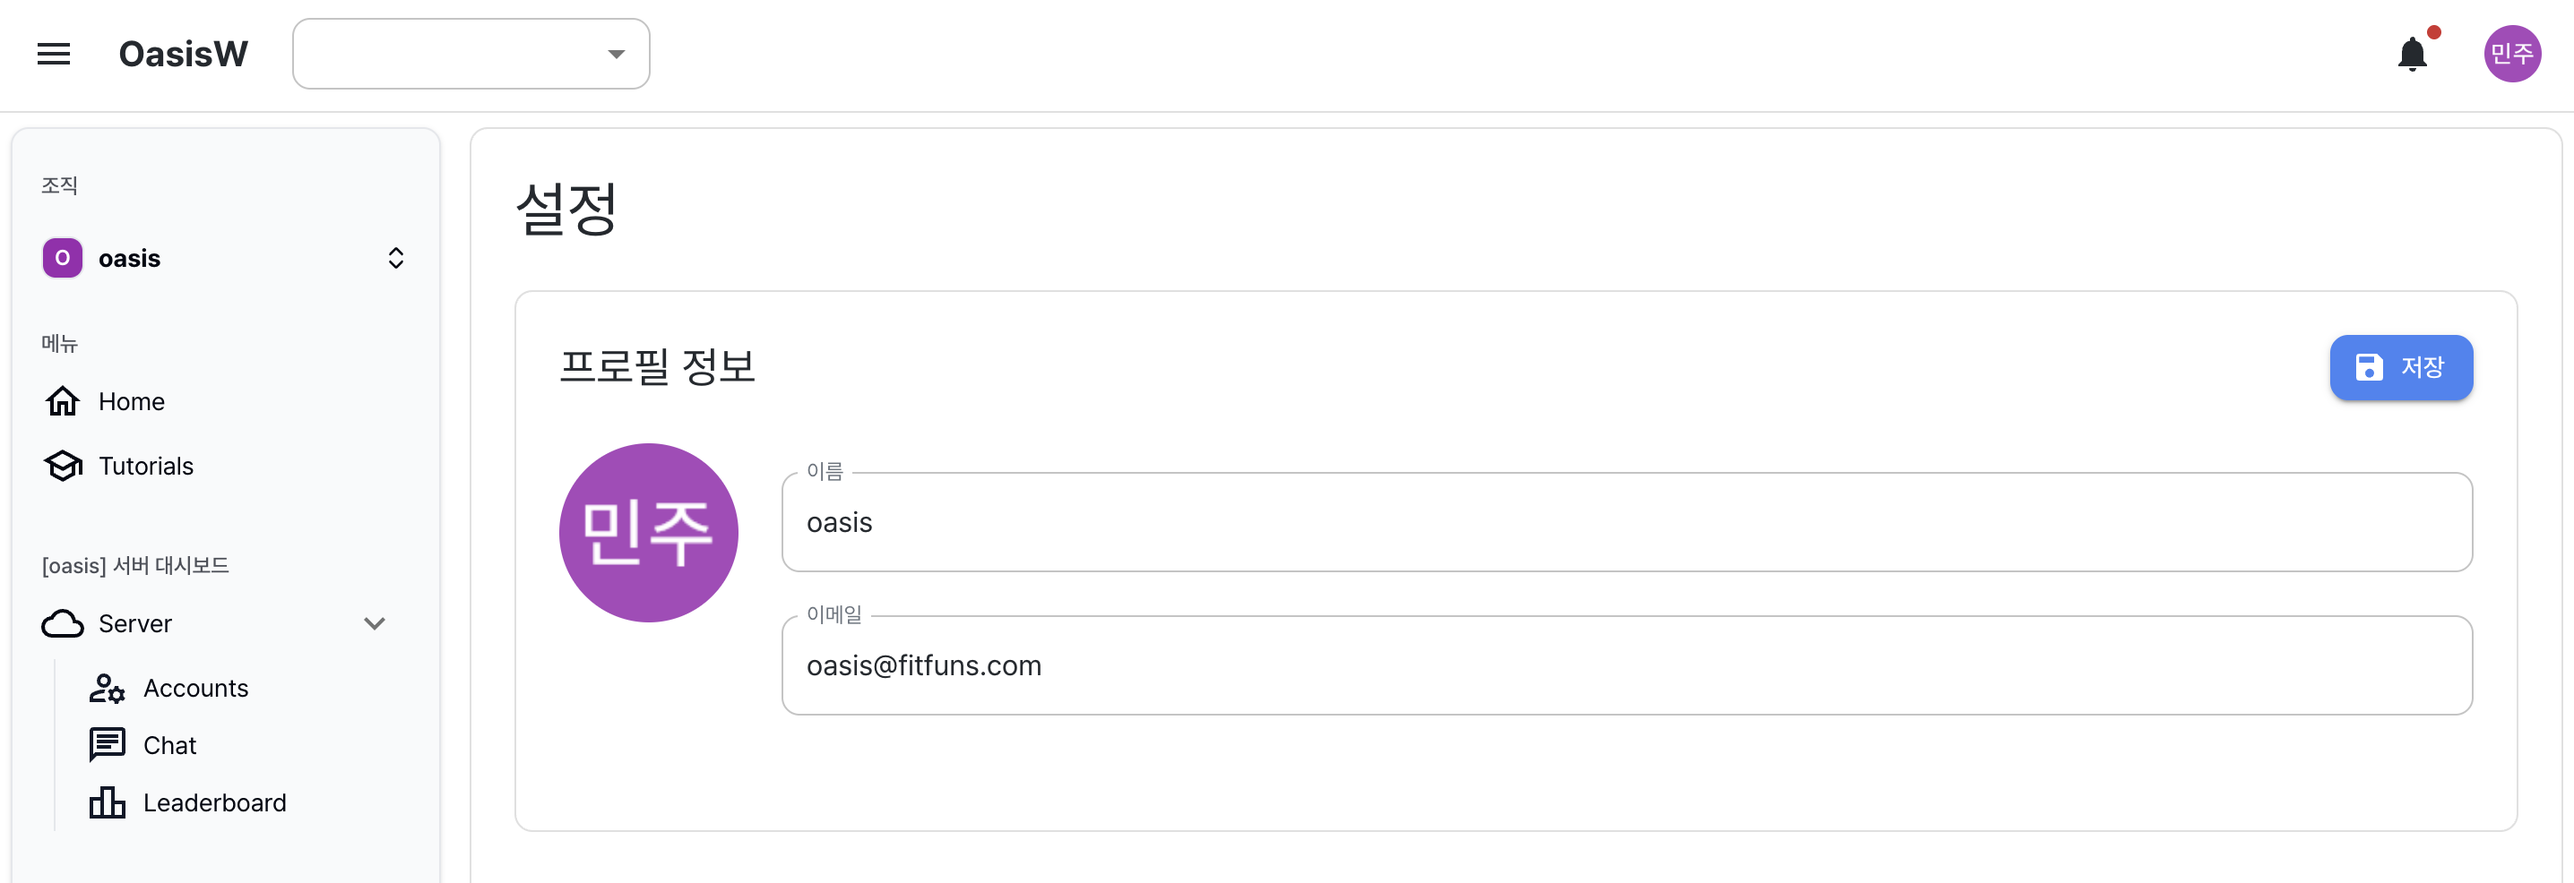
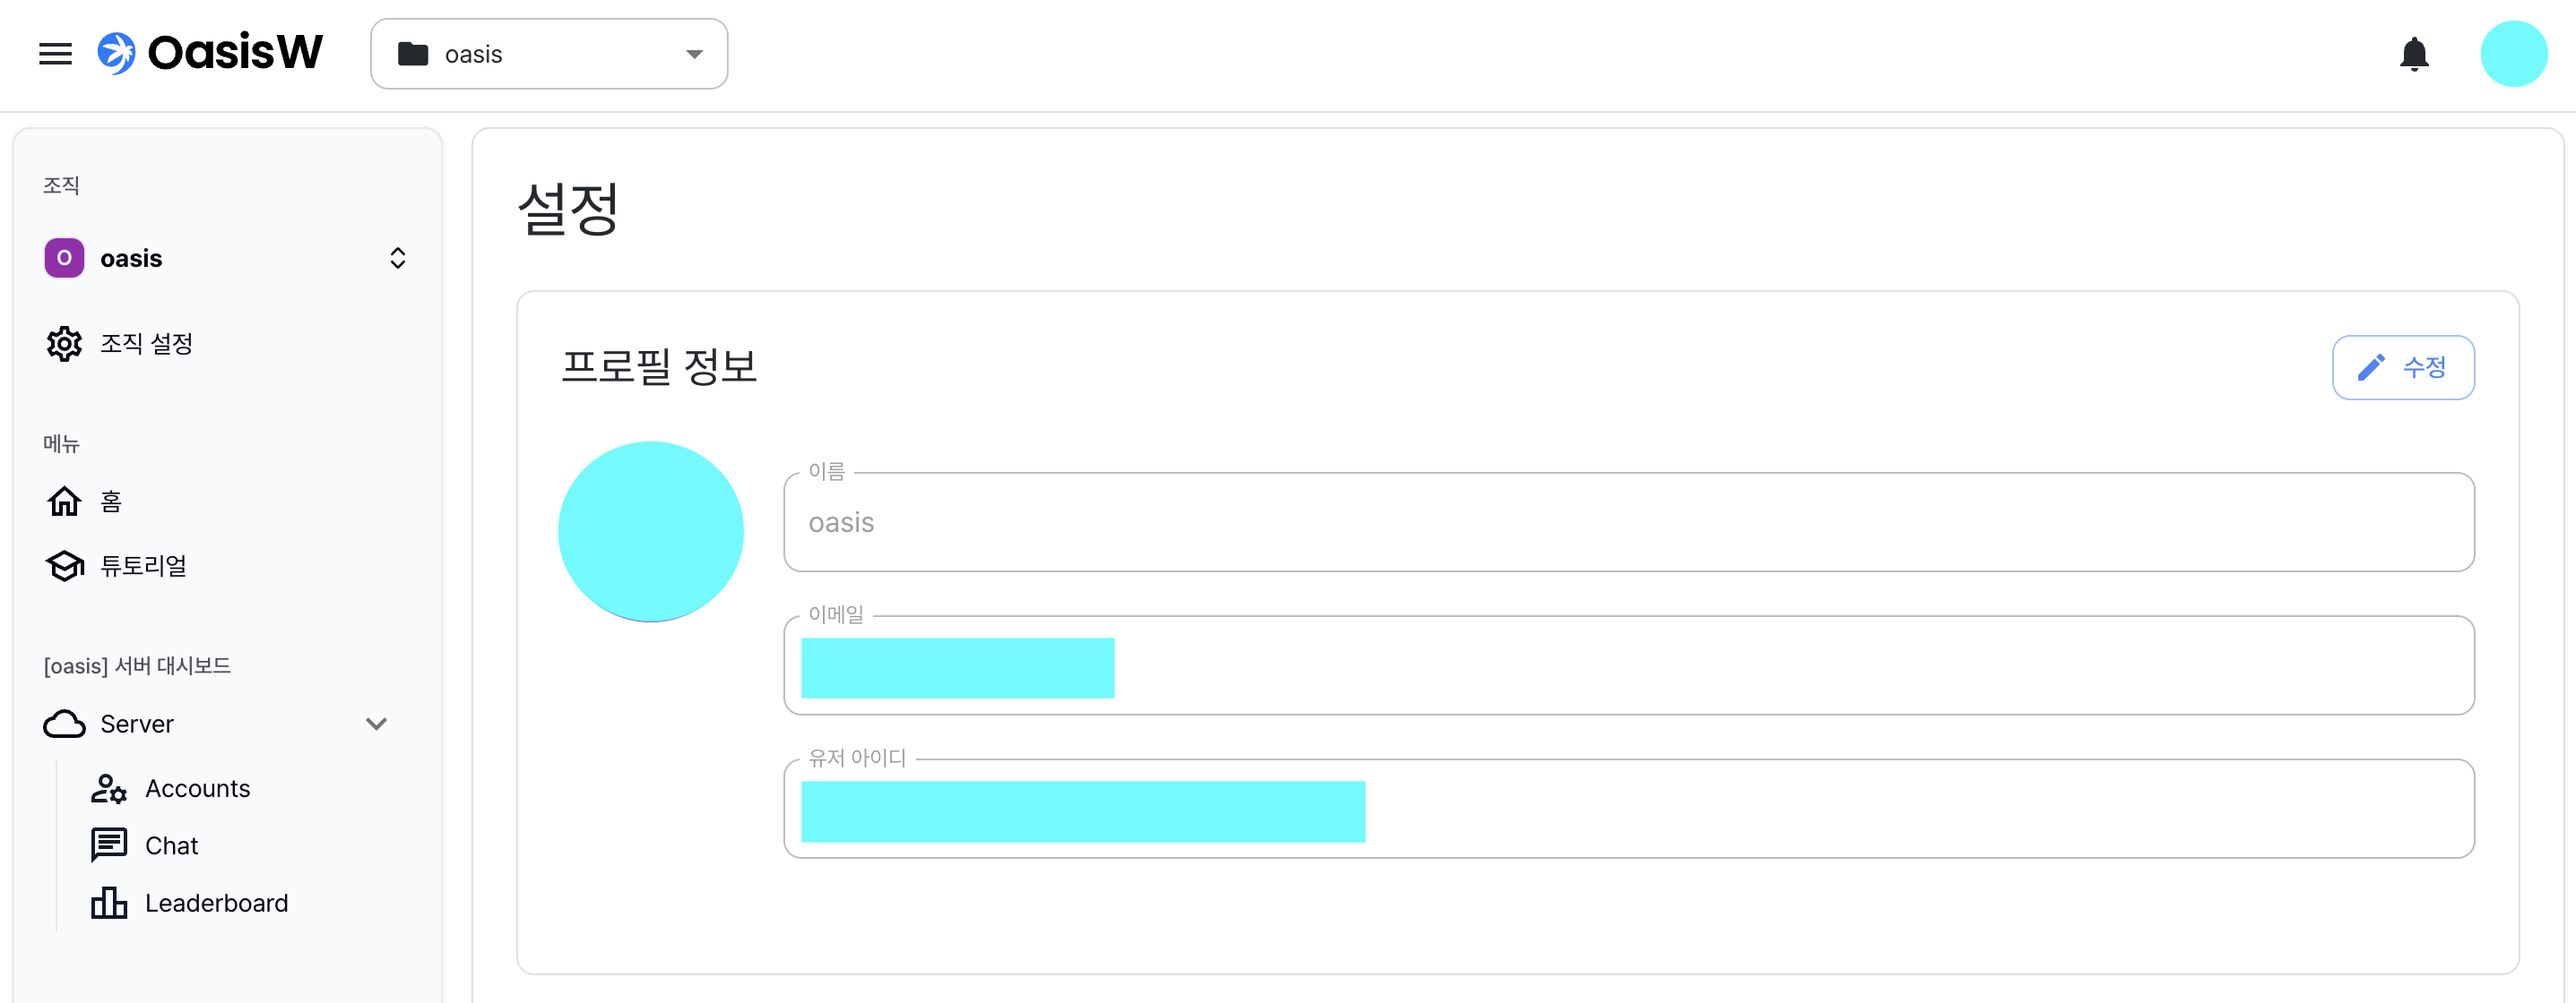
fix: 계정, 조직 설정

diff --git a/docs/usage-guide/account-settings.md b/docs/usage-guide/account-settings.md
@@ -10,12 +10,15 @@ OasisW Studio 계정 설정 기능을 학습합니다.
 
 ### 이름
 
-프로필과 협업에서 표시되는 표시 이름입니다. 언제든지 수정할 수 있습니다.
+프로필과 에디터에서 노출되는 이름입니다.
 
 ### 이메일 주소
 
 계정 알림 및 로그인을 위한 기본 이메일 주소입니다. 
-<!-- 이메일 주소를 변경하려면 "수정"을 클릭하세요. -->
+
+### 유저 아이디
+
+계정 생성 시 개인에게 부여되는 고유한 아이디입니다.
 
 <!-- ## 계정 삭제
 

diff --git a/i18n/en/docusaurus-plugin-content-docs/current/usage-guide/account-settings.md b/i18n/en/docusaurus-plugin-content-docs/current/usage-guide/account-settings.md
@@ -10,11 +10,15 @@ Learn about OasisW Studio account settings functionality.
 
 ### Name
 
-The display name shown in your profile and collaboration. You can modify this at any time.
+This is the name displayed on your profile and in the editor.
 
 ### Email Address
 
 The primary email address for account notifications and login.
+
+### User ID
+
+A unique identifier assigned to you when you create your account.
 <!-- To change your email address, click "Edit". -->
 
 <!-- ## Account Deletion

diff --git a/docs/usage-guide/organization.md b/docs/usage-guide/organization.md
@@ -10,7 +10,7 @@ OasisW Studio 조직 설정 기능을 학습합니다.
 
 ## 접속 방법
 
-- 로그인되어 있는 [OasisW Studio](https://oasisserver.link/)의 왼쪽 상단 **조직**을 클릭합니다.
+- 로그인되어 있는 [OasisW Studio](https://oasisserver.link/)의 왼쪽 상단 **조직 설정**을 클릭합니다.
 
 ![Organization](/img/usage-guide/14_1.png)
 

diff --git a/i18n/en/docusaurus-plugin-content-docs/current/usage-guide/organization.md b/i18n/en/docusaurus-plugin-content-docs/current/usage-guide/organization.md
@@ -10,7 +10,7 @@ Learn about OasisW Studio organization settings functionality.
 
 ## Access Method
 
-- Click **Organization** in the top left of the logged-in [OasisW Studio](https://oasisserver.link/).
+- Click **Organization Settings** at the top left of [OasisW Studio](https://oasisserver.link/) after logging in.
 
 ![Organization](/img/usage-guide/14_1.png)
 
